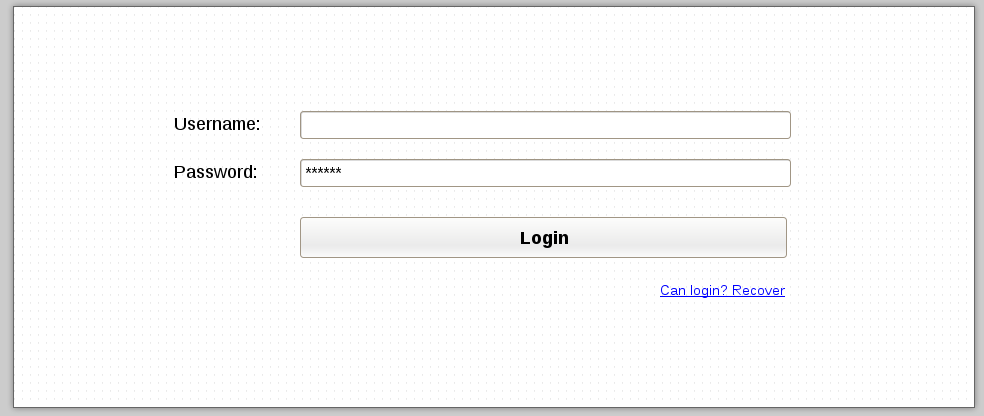
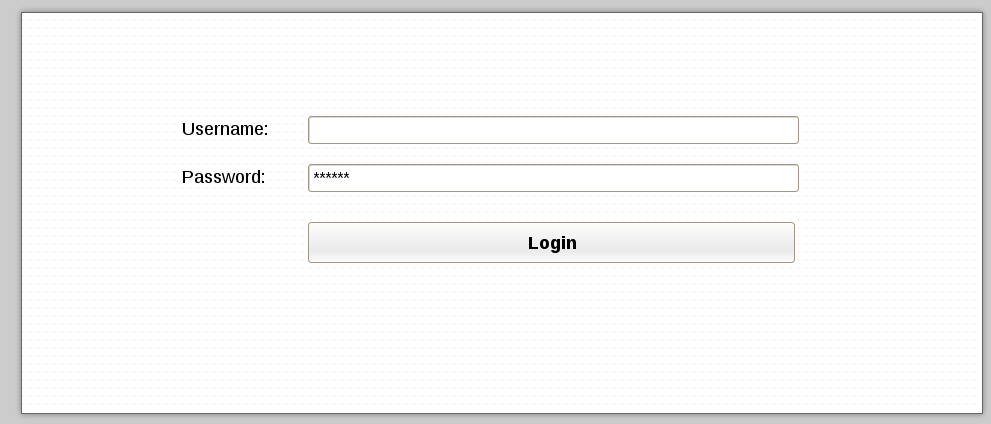
I added support for custom login screens which inherit core login functionality from Fantastico IDP.

diff --git a/fantastico/contrib/oauth2_idp/views/login.html b/fantastico/contrib/oauth2_idp/views/login.html
@@ -18,36 +18,36 @@
 {% block body_header %}
 <div class="row" align="center">
     <div class="col-md-4">
+        <div class="panel panel-default">
+            <div class="panel-heading">
+                {% block panel_header %}
+                <h1>Login to fantastico</h1>
+                {% endblock %}
+            </div>
 {% endblock %}
 
-    <div class="panel panel-default">
-        <div class="panel-heading">
-            {% block panel_header %}
-            <h1>Login to fantastico</h1>
-            {% endblock %}
-        </div>
-        <div class="panel-body">
-            <form role="form" class="form-horizontal" id="fantastico-login" 
-                    action="/oauth/idp/login?redirect_uri={{redirect_uri}}&error_format=form" method="post">
-                <div class="form-group">
-                    <input type="text" id="username" name="username" class="form-control" placeholder="johndoe@email.com" />
-                </div>
-                
-                <div class="form-group">
-                    <input type="password" id="password" name="password" class="form-control" />
-                </div>
-                
-                <div class="form-group">
-                    <button type="submit" class="form-control btn btn-primary btn-lg" id="btn-login">Login</button>
-                </div>
-            </form>
-        </div>
-        <div class="panel-footer">
-            <h4>Created by Radu Viorel Cosnita</h4>
-        </div>
-    </div>
+            <div class="panel-body">
+                <form role="form" class="form-horizontal" id="fantastico-login" 
+                        action="/oauth/idp/login?redirect_uri={{redirect_uri}}&error_format=form" method="post">
+                    <div class="form-group">
+                        <input type="text" id="username" name="username" class="form-control" placeholder="johndoe@email.com" />
+                    </div>
+                    
+                    <div class="form-group">
+                        <input type="password" id="password" name="password" class="form-control" />
+                    </div>
+                    
+                    <div class="form-group">
+                        <button type="submit" class="form-control btn btn-primary btn-lg" id="btn-login">Login</button>
+                    </div>
+                </form>
+            </div>
 
 {% block body_footer %}
+            <div class="panel-footer">
+                <h4>Created by Radu Viorel Cosnita</h4>
+            </div>
+        </div>
     </div>
 </div>
 {% endblock %}

diff --git a/fantastico/mvc/base_controller.py b/fantastico/mvc/base_controller.py
@@ -17,12 +17,14 @@ ARISING FROM, OUT OF OR IN CONNECTION WITH THE SOFTWARE OR THE USE OR OTHER DEAL
 
 .. py:module:: fantastico.mvc.base_controller
 '''
-from fantastico.exceptions import FantasticoTemplateNotFoundError, \
-    FantasticoError
+from fantastico.exceptions import FantasticoTemplateNotFoundError, FantasticoError
 from fantastico.utils import instantiator
 from jinja2.environment import Environment
 from jinja2.exceptions import TemplateNotFound
 from jinja2.loaders import FileSystemLoader
+import inspect
+import os
+from fantastico.settings import BasicSettings
 
 class BaseController(object):
     '''This class provides common methods useful for every concrete controller. Even if no type checking is done in
@@ -66,7 +68,7 @@ class BaseController(object):
 
         return instantiator.get_component_path_data(self.__class__, root_folder)[0]
 
-    def load_template(self, tpl_name, model_data=None, get_template=Environment.get_template):
+    def load_template(self, tpl_name, model_data=None, get_template=Environment.get_template, enable_global_folder=False):
         '''This method is responsible for loading a template from disk and render it using the given model data.
 
         .. code-block:: python
@@ -84,6 +86,16 @@ class BaseController(object):
             self.__init_jinja_context()
 
         model_data = model_data or {}
+
+        if enable_global_folder:
+            config_cls = self._settings_facade.get_config().__class__
+            parent_path = instantiator.get_class_abslocation(config_cls)
+
+            if config_cls != BasicSettings:
+                parent_path = os.path.abspath("%s../" % parent_path)
+
+            if parent_path not in self._tpl_loader.searchpath:
+                self._tpl_loader.searchpath.append(parent_path)
 
         try:
             return get_template(self._tpl_env, tpl_name).render(model_data)

diff --git a/fantastico/contrib/oauth2_idp/tests/test_idp_controller.py b/fantastico/contrib/oauth2_idp/tests/test_idp_controller.py
@@ -92,7 +92,8 @@ class IdpControllerTests(FantasticoUnitTestsCase):
 
         self._idp_controller.load_template.assert_called_once_with(
                                         self._TPL_LOGIN,
-                                        {redirect_param_name: urllib.parse.quote(request.params[redirect_param_name])})
+                                        {redirect_param_name: urllib.parse.quote(request.params[redirect_param_name])},
+                                        enable_global_folder=True)
 
     def test_show_login_missingreturn(self):
         '''This test case ensures login screen is not displayed if return_url query parameter is not provided.'''

diff --git a/fantastico/contrib/oauth2_idp/idp_controller.py b/fantastico/contrib/oauth2_idp/idp_controller.py
@@ -56,7 +56,8 @@ class IdpController(BaseController):
             raise OAuth2MissingQueryParamError(self.REDIRECT_PARAM)
 
         content = self.load_template(self._login_tpl,
-                                     {self.REDIRECT_PARAM: urllib.parse.quote(return_url)})
+                                     {self.REDIRECT_PARAM: urllib.parse.quote(return_url)},
+                                     enable_global_folder=True)
 
         return Response(content)
 

diff --git a/doc/source/features/oauth2/idp.rst b/doc/source/features/oauth2/idp.rst
@@ -35,21 +35,42 @@ Login frontend
 
 .. image:: /images/oauth2/idp_login.png
 
-Fantastico provides the secure process for login and account recovery. Developers can easily customize the login screen by providing
-a template which must be applied to login screen. A typical custom login template is presented below:
+Developers can easily customize the login screen by providing a template which must be applied to login screen. A typical custom
+login template is presented below:
 
 .. code-block:: html
 
+   {% extends "login.html" %}
+
    {% block head %}
-      <title>Simple login template</title>
+       <title>Fantastico IDP default login</title>
+
+       <!-- Latest compiled and minified CSS -->
+       <link rel="stylesheet" href="//netdna.bootstrapcdn.com/bootstrap/3.0.3/css/bootstrap.min.css">
+       <link rel="stylesheet" href="//netdna.bootstrapcdn.com/bootstrap/3.0.3/css/bootstrap-theme.min.css">
+
+       <script src="//code.jquery.com/jquery-2.0.3.min.js"></script>
+       <script src="//netdna.bootstrapcdn.com/bootstrap/3.0.3/js/bootstrap.min.js"></script>
    {% endblock %}
-   
+
    {% block body_header %}
-      <h1>Login screen</h1>
+   <div class="row" align="center">
+       <div class="col-md-4">
+           <div class="panel panel-default">
+               <div class="panel-heading">
+                   {% block panel_header %}
+                   <h1>Login to fantastico</h1>
+                   {% endblock %}
+               </div>
    {% endblock %}
-   
+
    {% block body_footer %}
-      <h6>A tiny little footer.</h6>
+               <div class="panel-footer">
+                   <h4>Created by Radu Viorel Cosnita</h4>
+               </div>
+           </div>
+       </div>
+   </div>
    {% endblock %}
 
 You can find documentation on how to configure custom login template on :doc:`/get_started/settings`.
